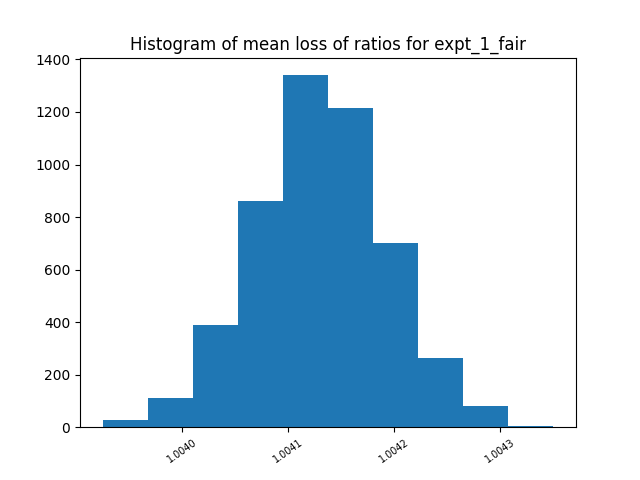
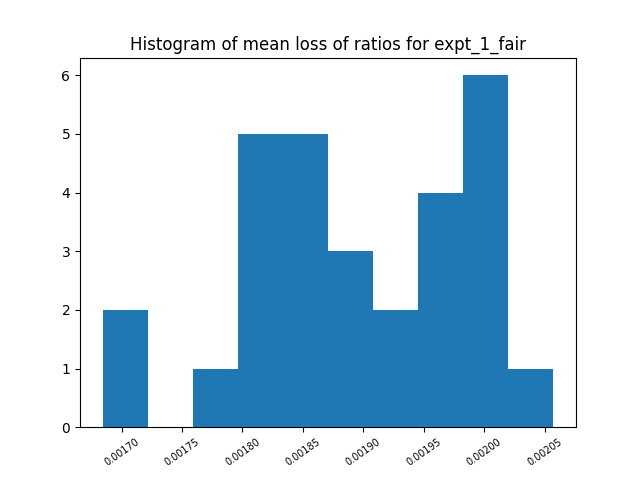
modified:   adversarial_sample.py modified:   adversarial_sample_fair.py

diff --git a/misha/adversarial_sample_fair.py b/misha/adversarial_sample_fair.py
@@ -59,15 +59,15 @@ def distance_ratio(data_point, regularizer = 1e0, learning_rate = 1e-3, num_step
     x = tf.reshape(x, (1, -1))
     y = tf.reshape(y, (1, -1))
     x_start = x
-    x_base = x
-    x_fair = x
+    x_base = x + tf.cast(np.random.normal(size=(1, 39)), dtype = tf.float32)
+    x_fair = x + tf.cast(np.random.normal(size=(1, 39)), dtype = tf.float32)
     for _ in range(num_steps):
         with tf.GradientTape() as g:
             g.watch(x_base)
             prob_base = graph(fair_transform(x_base))
             prob_start = graph(fair_transform(x_start))
             perturb = x - x_start
-            loss = (utils.EntropyLoss(y, prob_base)-utils.EntropyLoss(y, prob_start))/(tf.norm(perturb)+1)
+            loss = (utils.kl(prob_base, prob_start))/(tf.norm(perturb)+1)
 
         gradient = g.gradient(loss, x_base)
         x_base = x_base + learning_rate * gradient 
@@ -79,7 +79,7 @@ def distance_ratio(data_point, regularizer = 1e0, learning_rate = 1e-3, num_step
             prob_fair = graph(fair_transform(x_fair))
             prob_start = graph(fair_transform(x_start))
             perturb = tf.matmul(x - x_start, unprotected_directions)
-            loss = (utils.EntropyLoss(y, prob_fair)-utils.EntropyLoss(y, prob_start))/(tf.norm(perturb)+1)
+            loss = (utils.kl(prob_fair, prob_start))/(tf.norm(perturb)+1)
 
         gradient = g.gradient(loss, x_fair)
         x_fair = x_fair + learning_rate * gradient 

diff --git a/misha/adversarial_sample.py b/misha/adversarial_sample.py
@@ -57,16 +57,15 @@ def distance_ratio(data_point, regularizer = 1e0, learning_rate = 1e-3, num_step
     x = tf.reshape(x, (1, -1))
     y = tf.reshape(y, (1, -1))
     x_start = x
-    x_base = x
-    x_fair = x
+    x_base = x + tf.cast(np.random.normal(size=(1, 39)), dtype = tf.float32)
+    x_fair = x + tf.cast(np.random.normal(size=(1, 39)), dtype = tf.float32)
     for _ in range(num_steps):
         with tf.GradientTape() as g:
             g.watch(x_base)
             prob_base = graph(x_base)
             prob_start = graph(x_start)
             perturb = x - x_start
-            loss = (utils.EntropyLoss(y, prob_base)-utils.EntropyLoss(y, prob_start))/(tf.norm(perturb)+1)
-
+            loss = (utils.kl(prob_base, prob_start))/(tf.norm(perturb)+1)
         gradient = g.gradient(loss, x_base)
         x_base = x_base + learning_rate * gradient 
 
@@ -77,7 +76,7 @@ def distance_ratio(data_point, regularizer = 1e0, learning_rate = 1e-3, num_step
             prob_fair = graph(x_fair)
             prob_start = graph(x_start)
             perturb = tf.matmul(x - x_start, unprotected_directions)
-            loss = (utils.EntropyLoss(y, prob_fair)-utils.EntropyLoss(y, prob_start))/(tf.norm(perturb)+1)
+            loss = (utils.kl(prob_fair, prob_start))/(tf.norm(perturb)+1)
 
         gradient = g.gradient(loss, x_fair)
         x_fair = x_fair + learning_rate * gradient 
